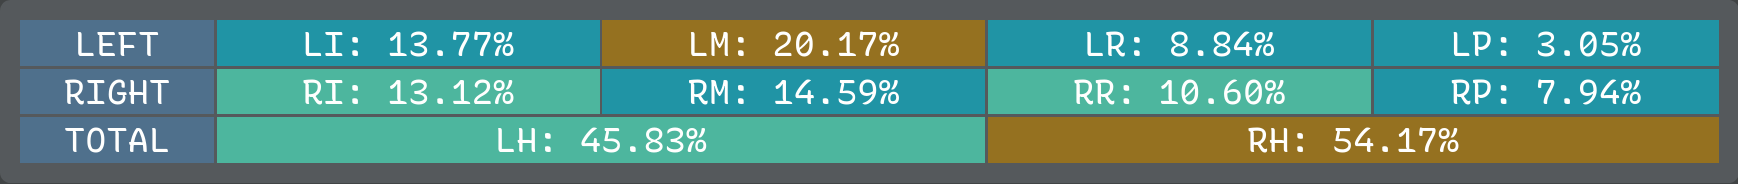
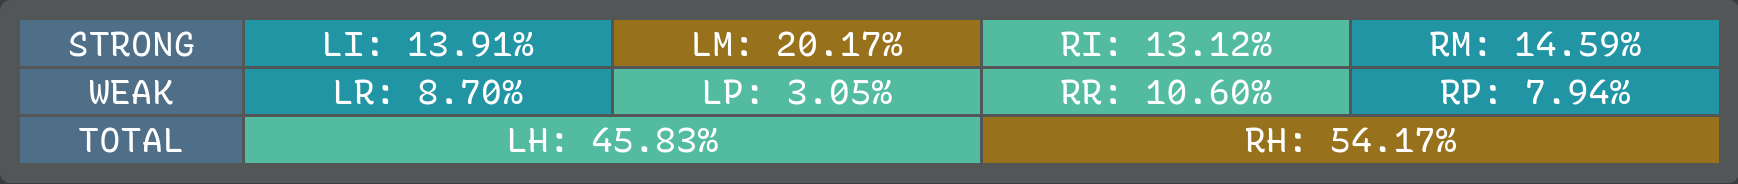
stack comma/dot; put minus on index, slash on ring

diff --git a/README.md b/README.md
@@ -21,7 +21,7 @@ days (start Friday and use weekend), to unlock all letters in [KeyBr] training.
 
       q y o u ; x l d w z
     b c i e a , k h t n s v
-      ' - = . / j m g p f
+      ' / = - . j m g p f
                 r
 
 <!-- vim-markdown-toc GFM -->
@@ -52,17 +52,14 @@ days (start Friday and use weekend), to unlock all letters in [KeyBr] training.
   it can be typed without same-finger bigrams such as `you'd` and `I'd`.
 
 * Cluster minus and equals for intuitive zoom in/out shortcuts with Ctrl.
+  Also put minus on index finger (just like comma, period, and semicolon)
+  for consistent responsibility of word/sentence delimiting punctuation.
 
 * Cluster comma and semicolon for prev/next jumping in Vim for f/F/t/T.
   This also mirrors the relative ordering of H and L on the right hand.
 
-* Cluster period and slash for `./` and `../` filesystem path navigation,
-  raking down vertically for `</` closing tags in HTML and XML documents,
-  and easy access to forward slash and question mark for Vim text search.
-
-* Although period and comma are backwards in the sense of their shifted
-  symbols `>` and `<`, their arrangement reduces lateral stretch bigrams
-  and also clusters `>` with minus and equals for `->` and `=>` arrows.
+* Stack comma and period for their shifted symbols `<>` to be raked down
+  vertically, and cluster with minus and equals for `->` and `=>` arrows.
 
 ### Deviation: PF and WV
 
@@ -116,26 +113,26 @@ but Oxey's analyzer reports a notable reduction in SFBs from 0.829% to 0.818%.
 
 Overall stats:
 * Total Word Effort: 748.5
-* Effort:            430.25
+* Effort:            461.58
 
 Finger usage:
 * Same Finger Bigrams: 0.55%
 * Skip Bigrams (2u):   0.29%
-* Lat Stretch Bigrams: 0.20%
-* Pinky/Ring Scissors: 0.35%
+* Lat Stretch Bigrams: 0.34%
+* Pinky/Ring Scissors: 0.34%
 
 Trigram stats:
-* alt:             37.47%
-* bigram roll in:  28.99%
-* bigram roll out: 14.71%
-* other:           9.07%
-* alt sfs:         5.08%
-* redirect:        1.94%
-* roll in:         1.36%
-* weak redirect:   1.24%
-* roll out:        0.13%
+* alt:             37.45%
+* bigram roll in:  29.02%
+* bigram roll out: 14.67%
+* other:           8.28%
+* alt sfs:         5.10%
+* redirect:        2.14%
+* roll in:         1.71%
+* weak redirect:   1.32%
+* roll out:        0.31%
 
-### [KeySolve analyzer](https://clemenpine.github.io/keysolve-web/)
+### [KeySolve analyzer](https://grassfedreeve.github.io/keysolve-web/)
 
 > **NOTE:** This analyzer currently doesn't support placing letters on lateral
 > home row pinky keys such as the traditional CapsLock key and the apostrophe,
@@ -149,13 +146,13 @@ Trigram stats:
 
 Overall stats:
 
-    BIGRAMS     SFB: 0.98%      LSB: 0.41%      HSB: 4.82%      FSB: 0.36%
-    SKIPGRAMS   SFS: 6.98%      LSS: 0.85%      HSS: 4.70%      FSS: 0.42%
-    TRIGRAMS    ALT: 41.24%     ROL: 40.70%     ONE: 2.47%      RED: 1.66%
+    BIGRAMS     SFB: 0.97%      LSB: 0.85%      HSB: 4.78%      FSB: 0.35%
+    SKIPGRAMS   SFS: 6.99%      LSS: 1.37%      HSS: 4.63%      FSS: 0.38%
+    TRIGRAMS    ALT: 41.24%     ROL: 40.71%     ONE: 2.47%      RED: 1.66%
 
 Finger usage:
 
-    LEFT        LI: 13.77%      LM: 20.17%      LR: 8.84%       LP: 3.05%
+    LEFT        LI: 13.91%      LM: 20.17%      LR: 8.70%       LP: 3.05%
     RIGHT       RI: 13.12%      RM: 14.59%      RR: 10.60%      RP: 7.94%
     TOTAL               LH: 45.83%                      RH: 54.17%
 
@@ -163,7 +160,7 @@ Custom source for copy/paste:
 
     q y o u ; x l d w z
     c i e a , k h t n s
-    ' - = . / j m g p f
+    ' / = - . j m g p f
     r b v
 
 ### [Oxey's analyzer](https://oxey.dev/playground/index.html)
@@ -177,40 +174,40 @@ Custom source for copy/paste:
 ![Screenshot](stats/enthium/oxey.png)
 
 Overall stats:
-* Sfb:              0.818%
-* Dsfb:             6.236%
-* Lsb:              0.319%
-* Inrolls:          29.408%
-* Outrolls:         15.867%
-* Total Rolls:      45.274%
-* Onehands:         2.343%
-* Alternates:       31.891%
-* Alternates (sfs): 7.270%
+* Sfb:              0.811%
+* Dsfb:             6.286%
+* Lsb:              0.533%
+* Inrolls:          29.442%
+* Outrolls:         15.841%
+* Total Rolls:      45.283%
+* Onehands:         2.348%
+* Alternates:       31.877%
+* Alternates (sfs): 7.284%
 * Total Alternates: 39.161%
-* Redirects:        3.838%
-* BadRedirects:     1.024%
-* Total Redirects:  4.862%
-* Other:            8.359%
+* Redirects:        3.864%
+* BadRedirects:     1.002%
+* Total Redirects:  4.866%
+* Other:            8.341%
 * Invalid:          0.001%
 
 Finger usage:
 
-    finger 0:   3.63%   finger 9:       8.60% 
-    finger 1:   9.25%   finger 8:       10.65%
+    finger 0:   3.63%   finger 9:       8.60%
+    finger 1:   9.08%   finger 8:       10.65%
     finger 2:   19.30%  finger 7:       14.56%
-    finger 3:   13.11%  finger 6:       12.33%
+    finger 3:   13.28%  finger 6:       12.33%
 
     Left hand:   45.29% Right hand:     46.14%
-    Left center: 1.211% Right center:   1.189%
+    Left center: 2.238% Right center:   1.189%
 
     Home keys usage: 56.37%
 
 Sfb% per finger:
 
     finger 0:   0.011%  finger 9:       0.024%
-    finger 1:   0.071%  finger 8:       0.100%
+    finger 1:   0.047%  finger 8:       0.100%
     finger 2:   0.122%  finger 7:       0.051%
-    finger 3:   0.322%  finger 6:       0.114%
+    finger 3:   0.339%  finger 6:       0.114%
 
 ### Comparison
 
@@ -226,10 +223,10 @@ The [keyboard layout community][rKL] commonly recommends [Pascal Getreuer's
 guide and comparison table][PGt] as a starting point for layout exploration,
 and you'll see that Enthium is among the best (statistically) layouts there:
 
-* 0.818% SFBs -- wins 🥈 second place; surpassed by Focal
-* 0.319% LSBs -- wins 🥇 first place; beats the entire table!
-* 45.274% rolls -- beats Nerps, Gallium, MTGAP, Graphite, Dvorak, Halmak, etc.
-* 4.862% redirects -- beats MTGAP, Sturdy, Recurva, APTv3, Canary, Colemak, etc.
+* 0.811% SFBs -- wins 🥈 second place; surpassed only by Focal
+* 0.533% LSBs -- wins 🥈 second place; surpassed only by Focal
+* 45.283% rolls -- beats Nerps, Gallium, MTGAP, Graphite, Dvorak, Halmak, etc.
+* 4.866% redirects -- beats MTGAP, Sturdy, Recurva, APTv3, Canary, Colemak, etc.
 * 2.80% pinky off _excluding_ lateral -- beats Graphite, Canary, Gallium, MTGAP, etc.
   * `Q` (0.10%) + `'` (0.48%) + `Z` (0.10%) + `F` (2.12%)
 * 5.35% pinky off _including_ lateral -- beats Engram, Halmak; surpassed by the rest
@@ -240,7 +237,7 @@ and you'll see that Enthium is among the best (statistically) layouts there:
 
 For completeness, I've tabulated all [statistics for this and related layouts]( stats/ ):
 
-[cNT]: https://cyanophage.github.io/playground.html?layout=zwdlx%3Buoyq%5Csnthk%2Caeicbfpgmj%2F.%3D-%27vr&mode=ergo&lan=english
+[cNT]: https://cyanophage.github.io/playground.html?layout=zwdlx%3Buoyq%5Csnthk%2Caeicbfpgmj.-%3D%2F%27vr&mode=ergo&lan=english
 [cPM]: https://cyanophage.github.io/playground.html?layout=fpdlx%3Buoybzsnthk%2Caeicqvwgmj-.%27%3D%2F%5Cr&mode=ergo&lan=english
 [cNG]: https://cyanophage.github.io/playground.html?layout=byou%27%3Bldwvzciea%2C.htsnqgxjk-%2Frmfp%5C%5E&mode=ergo&lan=english
 [cDV]: https://cyanophage.github.io/playground.html?layout=%27%2C.pyfgcrl%2Faoeuidhtns-%3Bqjkxbmwvz%5C%5E&mode=ergo&lan=english
@@ -248,57 +245,57 @@ For completeness, I've tabulated all [statistics for this and related layouts]( 
 
 | Analyzer   | Category  | Statistic           | [Enthium][cNT] | [Promethium][cPM] | [Engrammer][cNG] | [Dvorak][cDV] | [Colemak-DH][cCD] |
 | ---------- | --------- | ------------------- | -------------- | ----------------- | ---------------- | ------------- | ----------------- |
-| Oxey's     | Bigrams   | SFB                 | 0.818%         | 0.868%            | 1.511%           | 2.779%        | 1.367%            |
-| Oxey's     | Bigrams   | DSFB                | 6.236%         | 6.761%            | 7.620%           | 6.979%        | 8.767%            |
-| Oxey's     | Bigrams   | LSB                 | 0.319%         | 0.404%            | 0.671%           | 1.255%        | 1.975%            |
-| Oxey's     | Trigrams  | Inrolls             | 29.408%        | 29.333%           | 28.273%          | 23.820%       | 25.173%           |
-| Oxey's     | Trigrams  | Outrolls            | 15.867%        | 14.526%           | 14.050%          | 15.104%       | 20.940%           |
-| Oxey's     | Trigrams  | Total Rolls         | 45.274%        | 43.858%           | 42.323%          | 38.924%       | 46.113%           |
-| Oxey's     | Trigrams  | Onehands            | 2.343%         | 2.189%            | 2.146%           | 0.624%        | 2.484%            |
-| Oxey's     | Trigrams  | Alternates          | 31.891%        | 33.770%           | 32.483%          | 35.769%       | 22.913%           |
-| Oxey's     | Trigrams  | Alternates (SFS)    | 7.270%         | 8.205%            | 8.752%           | 8.787%        | 7.461%            |
+| Oxey's     | Bigrams   | SFB                 | 0.811%         | 0.868%            | 1.511%           | 2.779%        | 1.367%            |
+| Oxey's     | Bigrams   | DSFB                | 6.286%         | 6.761%            | 7.620%           | 6.979%        | 8.767%            |
+| Oxey's     | Bigrams   | LSB                 | 0.533%         | 0.404%            | 0.671%           | 1.255%        | 1.975%            |
+| Oxey's     | Trigrams  | Inrolls             | 29.442%        | 29.333%           | 28.273%          | 23.820%       | 25.173%           |
+| Oxey's     | Trigrams  | Outrolls            | 15.841%        | 14.526%           | 14.050%          | 15.104%       | 20.940%           |
+| Oxey's     | Trigrams  | Total Rolls         | 45.283%        | 43.858%           | 42.323%          | 38.924%       | 46.113%           |
+| Oxey's     | Trigrams  | Onehands            | 2.348%         | 2.189%            | 2.146%           | 0.624%        | 2.484%            |
+| Oxey's     | Trigrams  | Alternates          | 31.877%        | 33.770%           | 32.483%          | 35.769%       | 22.913%           |
+| Oxey's     | Trigrams  | Alternates (SFS)    | 7.284%         | 8.205%            | 8.752%           | 8.787%        | 7.461%            |
 | Oxey's     | Trigrams  | Total Alternates    | 39.161%        | 41.974%           | 41.235%          | 44.556%       | 30.375%           |
-| Oxey's     | Trigrams  | Redirects           | 3.838%         | 2.273%            | 3.103%           | 2.639%        | 9.081%            |
-| Oxey's     | Trigrams  | BadRedirects        | 1.024%         | 1.236%            | 1.386%           | 0.818%        | 1.498%            |
-| Oxey's     | Trigrams  | Total Redirects     | 4.862%         | 3.509%            | 4.489%           | 3.458%        | 10.579%           |
-| Oxey's     | Trigrams  | Other               | 8.359%         | 8.468%            | 9.806%           | 12.437%       | 9.202%            |
+| Oxey's     | Trigrams  | Redirects           | 3.864%         | 2.273%            | 3.103%           | 2.639%        | 9.081%            |
+| Oxey's     | Trigrams  | BadRedirects        | 1.002%         | 1.236%            | 1.386%           | 0.818%        | 1.498%            |
+| Oxey's     | Trigrams  | Total Redirects     | 4.866%         | 3.509%            | 4.489%           | 3.458%        | 10.579%           |
+| Oxey's     | Trigrams  | Other               | 8.341%         | 8.468%            | 9.806%           | 12.437%       | 9.202%            |
 | Oxey's     | Trigrams  | Invalid             | 0.001%         | 0.001%            | 0.001%           | 0.001%        | 1.248%            |
 | Oxey's     | Usage     | Finger 0            | 3.63%          | 9.56%             | 6.58%            | 8.50%         | 8.12%             |
-| Oxey's     | Usage     | Finger 1            | 9.25%          | 10.65%            | 9.21%            | 8.72%         | 8.04%             |
+| Oxey's     | Usage     | Finger 1            | 9.08%          | 10.65%            | 9.21%            | 8.72%         | 8.04%             |
 | Oxey's     | Usage     | Finger 2            | 19.30%         | 14.56%            | 19.47%           | 12.99%        | 11.55%            |
-| Oxey's     | Usage     | Finger 3            | 13.11%         | 12.33%            | 13.35%           | 14.95%        | 19.19%            |
+| Oxey's     | Usage     | Finger 3            | 13.28%         | 12.33%            | 13.35%           | 14.95%        | 19.19%            |
 | Oxey's     | Usage     | Finger 6            | 12.33%         | 13.28%            | 16.04%           | 16.33%        | 18.88%            |
 | Oxey's     | Usage     | Finger 7            | 14.56%         | 19.77%            | 14.93%           | 13.73%        | 15.60%            |
 | Oxey's     | Usage     | Finger 8            | 10.65%         | 9.01%             | 10.31%           | 13.84%        | 10.11%            |
 | Oxey's     | Usage     | Finger 9            | 8.60%          | 4.62%             | 9.90%            | 10.59%        | 7.77%             |
 | Oxey's     | Usage     | Left hand           | 45.29%         | 47.10%            | 48.61%           | 45.16%        | 46.89%            |
 | Oxey's     | Usage     | Right hand          | 46.14%         | 46.68%            | 51.18%           | 54.49%        | 52.36%            |
-| Oxey's     | Usage     | Left center         | 1.211%         | 1.189%            | 1.765%           | 9.208%        | 4.592%            |
+| Oxey's     | Usage     | Left center         | 2.238%         | 1.189%            | 1.765%           | 9.208%        | 4.592%            |
 | Oxey's     | Usage     | Right center        | 1.189%         | 1.384%            | 1.294%           | 7.257%        | 3.393%            |
 | Oxey's     | Usage     | Home keys           | 56.37%         | 56.37%            | 56.37%           | 56.70%        | 62.31%            |
 | Oxey's     | SFB%      | Finger 0            | 0.011%         | 0.028%            | 0.012%           | 0.020%        | 0.041%            |
-| Oxey's     | SFB%      | Finger 1            | 0.071%         | 0.100%            | 0.089%           | 0.028%        | 0.047%            |
+| Oxey's     | SFB%      | Finger 1            | 0.047%         | 0.100%            | 0.089%           | 0.028%        | 0.047%            |
 | Oxey's     | SFB%      | Finger 2            | 0.122%         | 0.051%            | 0.230%           | 0.253%        | 0.186%            |
-| Oxey's     | SFB%      | Finger 3            | 0.322%         | 0.114%            | 0.591%           | 1.075%        | 0.219%            |
+| Oxey's     | SFB%      | Finger 3            | 0.339%         | 0.114%            | 0.591%           | 1.075%        | 0.219%            |
 | Oxey's     | SFB%      | Finger 6            | 0.114%         | 0.339%            | 0.380%           | 0.433%        | 0.388%            |
 | Oxey's     | SFB%      | Finger 7            | 0.051%         | 0.185%            | 0.053%           | 0.494%        | 0.341%            |
 | Oxey's     | SFB%      | Finger 8            | 0.100%         | 0.040%            | 0.098%           | 0.256%        | 0.137%            |
 | Oxey's     | SFB%      | Finger 9            | 0.024%         | 0.011%            | 0.058%           | 0.220%        | 0.007%            |
-| KeySolve   | Bigrams   | SFB                 | 0.98%          | 0.94%             | 1.56%            | 2.62%         | 1.49%             |
-| KeySolve   | Bigrams   | LSB                 | 0.41%          | 0.45%             | 0.98%            | 1.17%         | 2.21%             |
-| KeySolve   | Bigrams   | HSB                 | 4.82%          | 6.04%             | 3.02%            | 6.11%         | 5.93%             |
-| KeySolve   | Bigrams   | FSB                 | 0.36%          | 0.26%             | 0.30%            | 0.14%         | 0.37%             |
-| KeySolve   | Skipgrams | SFS                 | 6.98%          | 7.02%             | 7.50%            | 7.00%         | 7.95%             |
-| KeySolve   | Skipgrams | LSS                 | 0.85%          | 0.93%             | 1.34%            | 4.48%         | 1.75%             |
-| KeySolve   | Skipgrams | HSS                 | 4.70%          | 6.11%             | 6.91%            | 8.56%         | 6.49%             |
-| KeySolve   | Skipgrams | FSS                 | 0.42%          | 0.78%             | 0.81%            | 1.22%         | 0.78%             |
+| KeySolve   | Bigrams   | SFB                 | 0.97%          | 0.94%             | 1.56%            | 2.62%         | 1.49%             |
+| KeySolve   | Bigrams   | LSB                 | 0.85%          | 0.45%             | 0.98%            | 1.17%         | 2.21%             |
+| KeySolve   | Bigrams   | HSB                 | 4.78%          | 6.04%             | 3.02%            | 6.11%         | 5.93%             |
+| KeySolve   | Bigrams   | FSB                 | 0.35%          | 0.26%             | 0.30%            | 0.14%         | 0.37%             |
+| KeySolve   | Skipgrams | SFS                 | 6.99%          | 7.02%             | 7.50%            | 7.00%         | 7.95%             |
+| KeySolve   | Skipgrams | LSS                 | 1.37%          | 0.93%             | 1.34%            | 4.48%         | 1.75%             |
+| KeySolve   | Skipgrams | HSS                 | 4.63%          | 6.11%             | 6.91%            | 8.56%         | 6.49%             |
+| KeySolve   | Skipgrams | FSS                 | 0.38%          | 0.78%             | 0.81%            | 1.22%         | 0.78%             |
 | KeySolve   | Trigrams  | ALT                 | 41.24%         | 40.37%            | 39.59%           | 41.70%        | 27.58%            |
-| KeySolve   | Trigrams  | ROL                 | 40.70%         | 40.84%            | 39.35%           | 37.19%        | 42.78%            |
+| KeySolve   | Trigrams  | ROL                 | 40.71%         | 40.84%            | 39.35%           | 37.19%        | 42.78%            |
 | KeySolve   | Trigrams  | ONE                 | 2.47%          | 2.66%             | 2.65%            | 0.43%         | 2.45%             |
 | KeySolve   | Trigrams  | RED                 | 1.66%          | 1.78%             | 2.65%            | 2.25%         | 6.74%             |
-| KeySolve   | Usage     | LI                  | 13.77%         | 13.91%            | 13.91%           | 14.56%        | 18.82%            |
+| KeySolve   | Usage     | LI                  | 13.91%         | 13.91%            | 13.91%           | 14.56%        | 18.82%            |
 | KeySolve   | Usage     | LM                  | 20.17%         | 20.92%            | 20.30%           | 13.96%        | 10.18%            |
-| KeySolve   | Usage     | LR                  | 8.84%          | 8.70%             | 8.83%            | 9.55%         | 7.83%             |
+| KeySolve   | Usage     | LR                  | 8.70%          | 8.70%             | 8.83%            | 9.55%         | 7.83%             |
 | KeySolve   | Usage     | LP                  | 3.05%          | 3.64%             | 5.72%            | 8.24%         | 7.63%             |
 | KeySolve   | Usage     | RI                  | 13.12%         | 13.12%            | 16.52%           | 16.90%        | 20.00%            |
 | KeySolve   | Usage     | RM                  | 14.59%         | 14.59%            | 15.03%           | 13.35%        | 16.91%            |
@@ -307,20 +304,20 @@ For completeness, I've tabulated all [statistics for this and related layouts]( 
 | KeySolve   | Total     | LH                  | 45.83%         | 47.18%            | 48.75%           | 46.31%        | 44.46%            |
 | KeySolve   | Total     | RH                  | 54.17%         | 52.82%            | 51.25%           | 53.69%        | 55.54%            |
 | Cyanophage | Summary   | Total Word Effort   | 748.5          | 732.3             | 899.8            | 1185.5        | 1048.2            |
-| Cyanophage | Summary   | Effort              | 430.25         | 398.07            | 457.44           | 769.78        | 535.05            |
+| Cyanophage | Summary   | Effort              | 461.58         | 398.07            | 457.44           | 769.78        | 535.05            |
 | Cyanophage | Bigrams   | Same Finger Bigrams | 0.55%          | 0.58%             | 0.99%            | 1.87%         | 0.91%             |
 | Cyanophage | Bigrams   | Skip Bigrams (2u)   | 0.29%          | 0.36%             | 0.39%            | 0.45%         | 0.41%             |
-| Cyanophage | Bigrams   | Lat Stretch Bigrams | 0.20%          | 0.24%             | 0.41%            | 0.80%         | 1.27%             |
-| Cyanophage | Bigrams   | Pinky/Ring Scissors | 0.35%          | 0.42%             | 0.71%            | 0.40%         | 0.65%             |
-| Cyanophage | Trigrams  | Alt                 | 37.47%         | 36.98%            | 35.62%           | 39.08%        | 25.43%            |
-| Cyanophage | Trigrams  | Alt SFS             | 5.08%          | 5.27%             | 5.93%            | 5.85%         | 5.47%             |
-| Cyanophage | Trigrams  | Roll in             | 1.36%          | 1.37%             | 1.82%            | 0.86%         | 1.50%             |
-| Cyanophage | Trigrams  | Roll out            | 0.13%          | 0.11%             | 0.29%            | 0.27%         | 0.98%             |
-| Cyanophage | Trigrams  | Bigram roll in      | 28.99%         | 29.18%            | 28.14%           | 23.51%        | 25.18%            |
-| Cyanophage | Trigrams  | Bigram roll out     | 14.71%         | 14.56%            | 14.03%           | 15.14%        | 21.55%            |
-| Cyanophage | Trigrams  | Redirect            | 1.94%          | 2.03%             | 3.05%            | 2.57%         | 9.22%             |
-| Cyanophage | Trigrams  | Weak redirect       | 1.24%          | 1.30%             | 1.40%            | 0.28%         | 1.52%             |
-| Cyanophage | Trigrams  | Other               | 9.07%          | 9.20%             | 9.72%            | 12.44%        | 9.17%             |
+| Cyanophage | Bigrams   | Lat Stretch Bigrams | 0.34%          | 0.24%             | 0.41%            | 0.80%         | 1.27%             |
+| Cyanophage | Bigrams   | Pinky/Ring Scissors | 0.34%          | 0.42%             | 0.71%            | 0.40%         | 0.65%             |
+| Cyanophage | Trigrams  | Alt                 | 37.45%         | 36.98%            | 35.62%           | 39.08%        | 25.43%            |
+| Cyanophage | Trigrams  | Alt SFS             | 5.10%          | 5.27%             | 5.93%            | 5.85%         | 5.47%             |
+| Cyanophage | Trigrams  | Roll in             | 1.71%          | 1.37%             | 1.82%            | 0.86%         | 1.50%             |
+| Cyanophage | Trigrams  | Roll out            | 0.31%          | 0.11%             | 0.29%            | 0.27%         | 0.98%             |
+| Cyanophage | Trigrams  | Bigram roll in      | 29.02%         | 29.18%            | 28.14%           | 23.51%        | 25.18%            |
+| Cyanophage | Trigrams  | Bigram roll out     | 14.67%         | 14.56%            | 14.03%           | 15.14%        | 21.55%            |
+| Cyanophage | Trigrams  | Redirect            | 2.14%          | 2.03%             | 3.05%            | 2.57%         | 9.22%             |
+| Cyanophage | Trigrams  | Weak redirect       | 1.32%          | 1.30%             | 1.40%            | 0.28%         | 1.52%             |
+| Cyanophage | Trigrams  | Other               | 8.28%          | 9.20%             | 9.72%            | 12.44%        | 9.17%             |
 
 ## Installation
 
